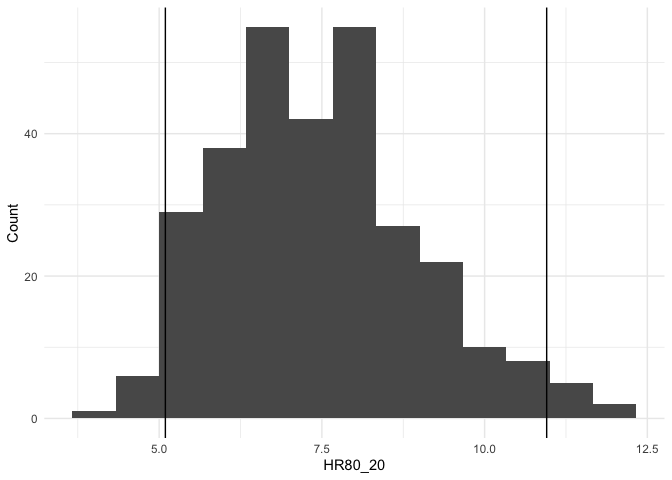
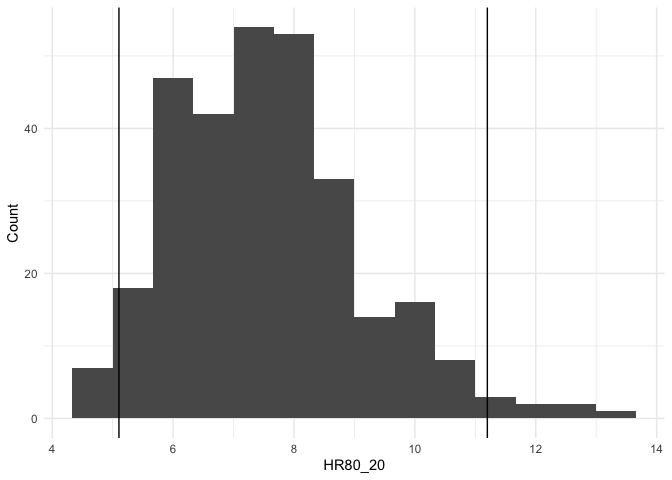
update example dataset and readme

diff --git a/README.md b/README.md
@@ -63,7 +63,6 @@ that is included with the `hazrd` package.
 ``` r
 library(ggplot2)
 library(hazrd)
-set.seed(4649580)
 
 head(test_data)
 ```
@@ -97,8 +96,8 @@ str(HR80_20)
     ##  $ index    : chr "HR80_20"
     ##  $ value    : num 7.34
     ##  $ conf.low : num 5.1
-    ##  $ conf.high: num 11
-    ##  $ iters    : num [1:300, 1] 8.06 6.28 9.3 11.93 4.92 ...
+    ##  $ conf.high: num 11.2
+    ##  $ iters    : num [1:300, 1] 6.7 8.81 7.1 5.08 4.73 ...
 
 Each `get_` function also returns the output from each bootstrap
 iteration in `$iters` so that the user can plot these or calculate their
@@ -127,9 +126,9 @@ str(OR80_20)
     ## List of 5
     ##  $ index    : chr "OR80_20"
     ##  $ value    : num 4.86
-    ##  $ conf.low : num 2.81
-    ##  $ conf.high: num 12.9
-    ##  $ iters    : num [1:300, 1] 3.23 4.41 3.41 17.88 4.01 ...
+    ##  $ conf.low : num 2.43
+    ##  $ conf.high: num 10.6
+    ##  $ iters    : num [1:300, 1] 6.01 3.82 4.98 4.59 4.36 ...
 
 ``` r
 ggplot(mapping = aes(x = OR80_20$iters)) +
@@ -154,9 +153,9 @@ str(c_index)
     ## List of 5
     ##  $ index    : chr "C_Index"
     ##  $ value    : num 0.671
-    ##  $ conf.low : num 0.624
-    ##  $ conf.high: num 0.708
-    ##  $ iters    : num [1:300, 1] 0.668 0.669 0.665 0.654 0.703 ...
+    ##  $ conf.low : num 0.627
+    ##  $ conf.high: num 0.711
+    ##  $ iters    : num [1:300, 1] 0.681 0.664 0.688 0.676 0.673 ...
 
 Finally, plot the Kaplan-Meier curves with confidence intervals for
 centiles of interest.
